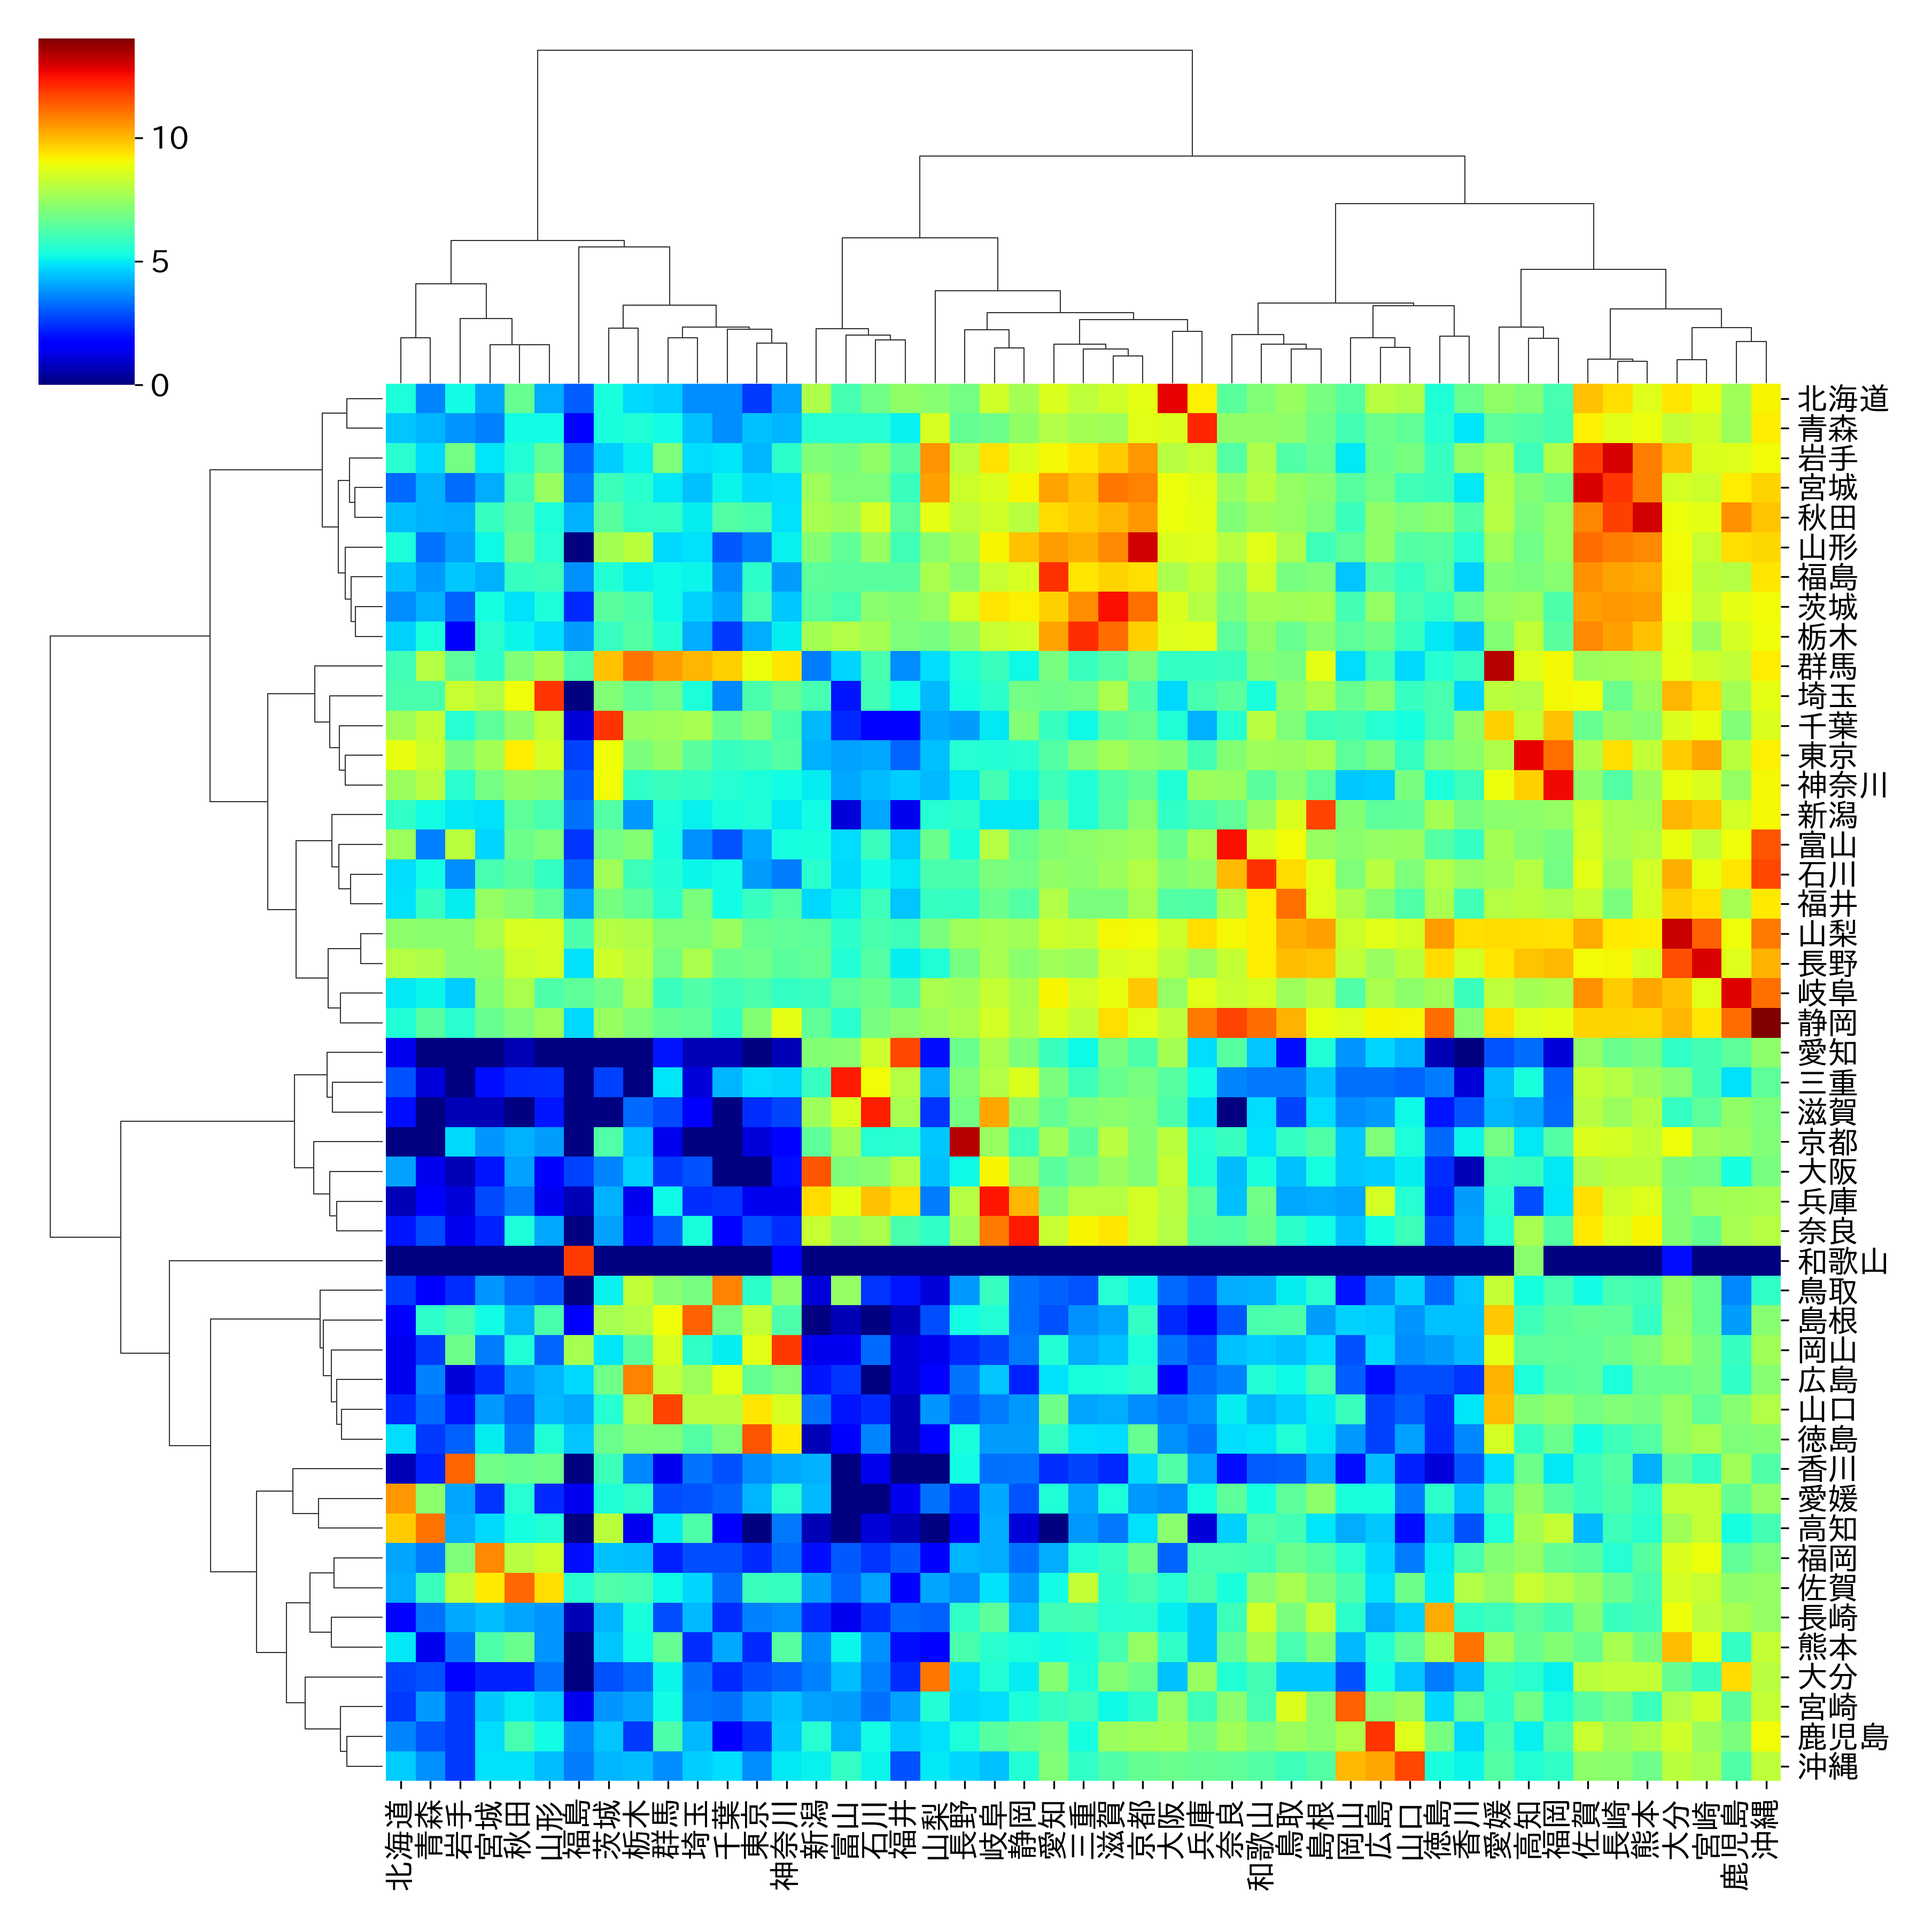
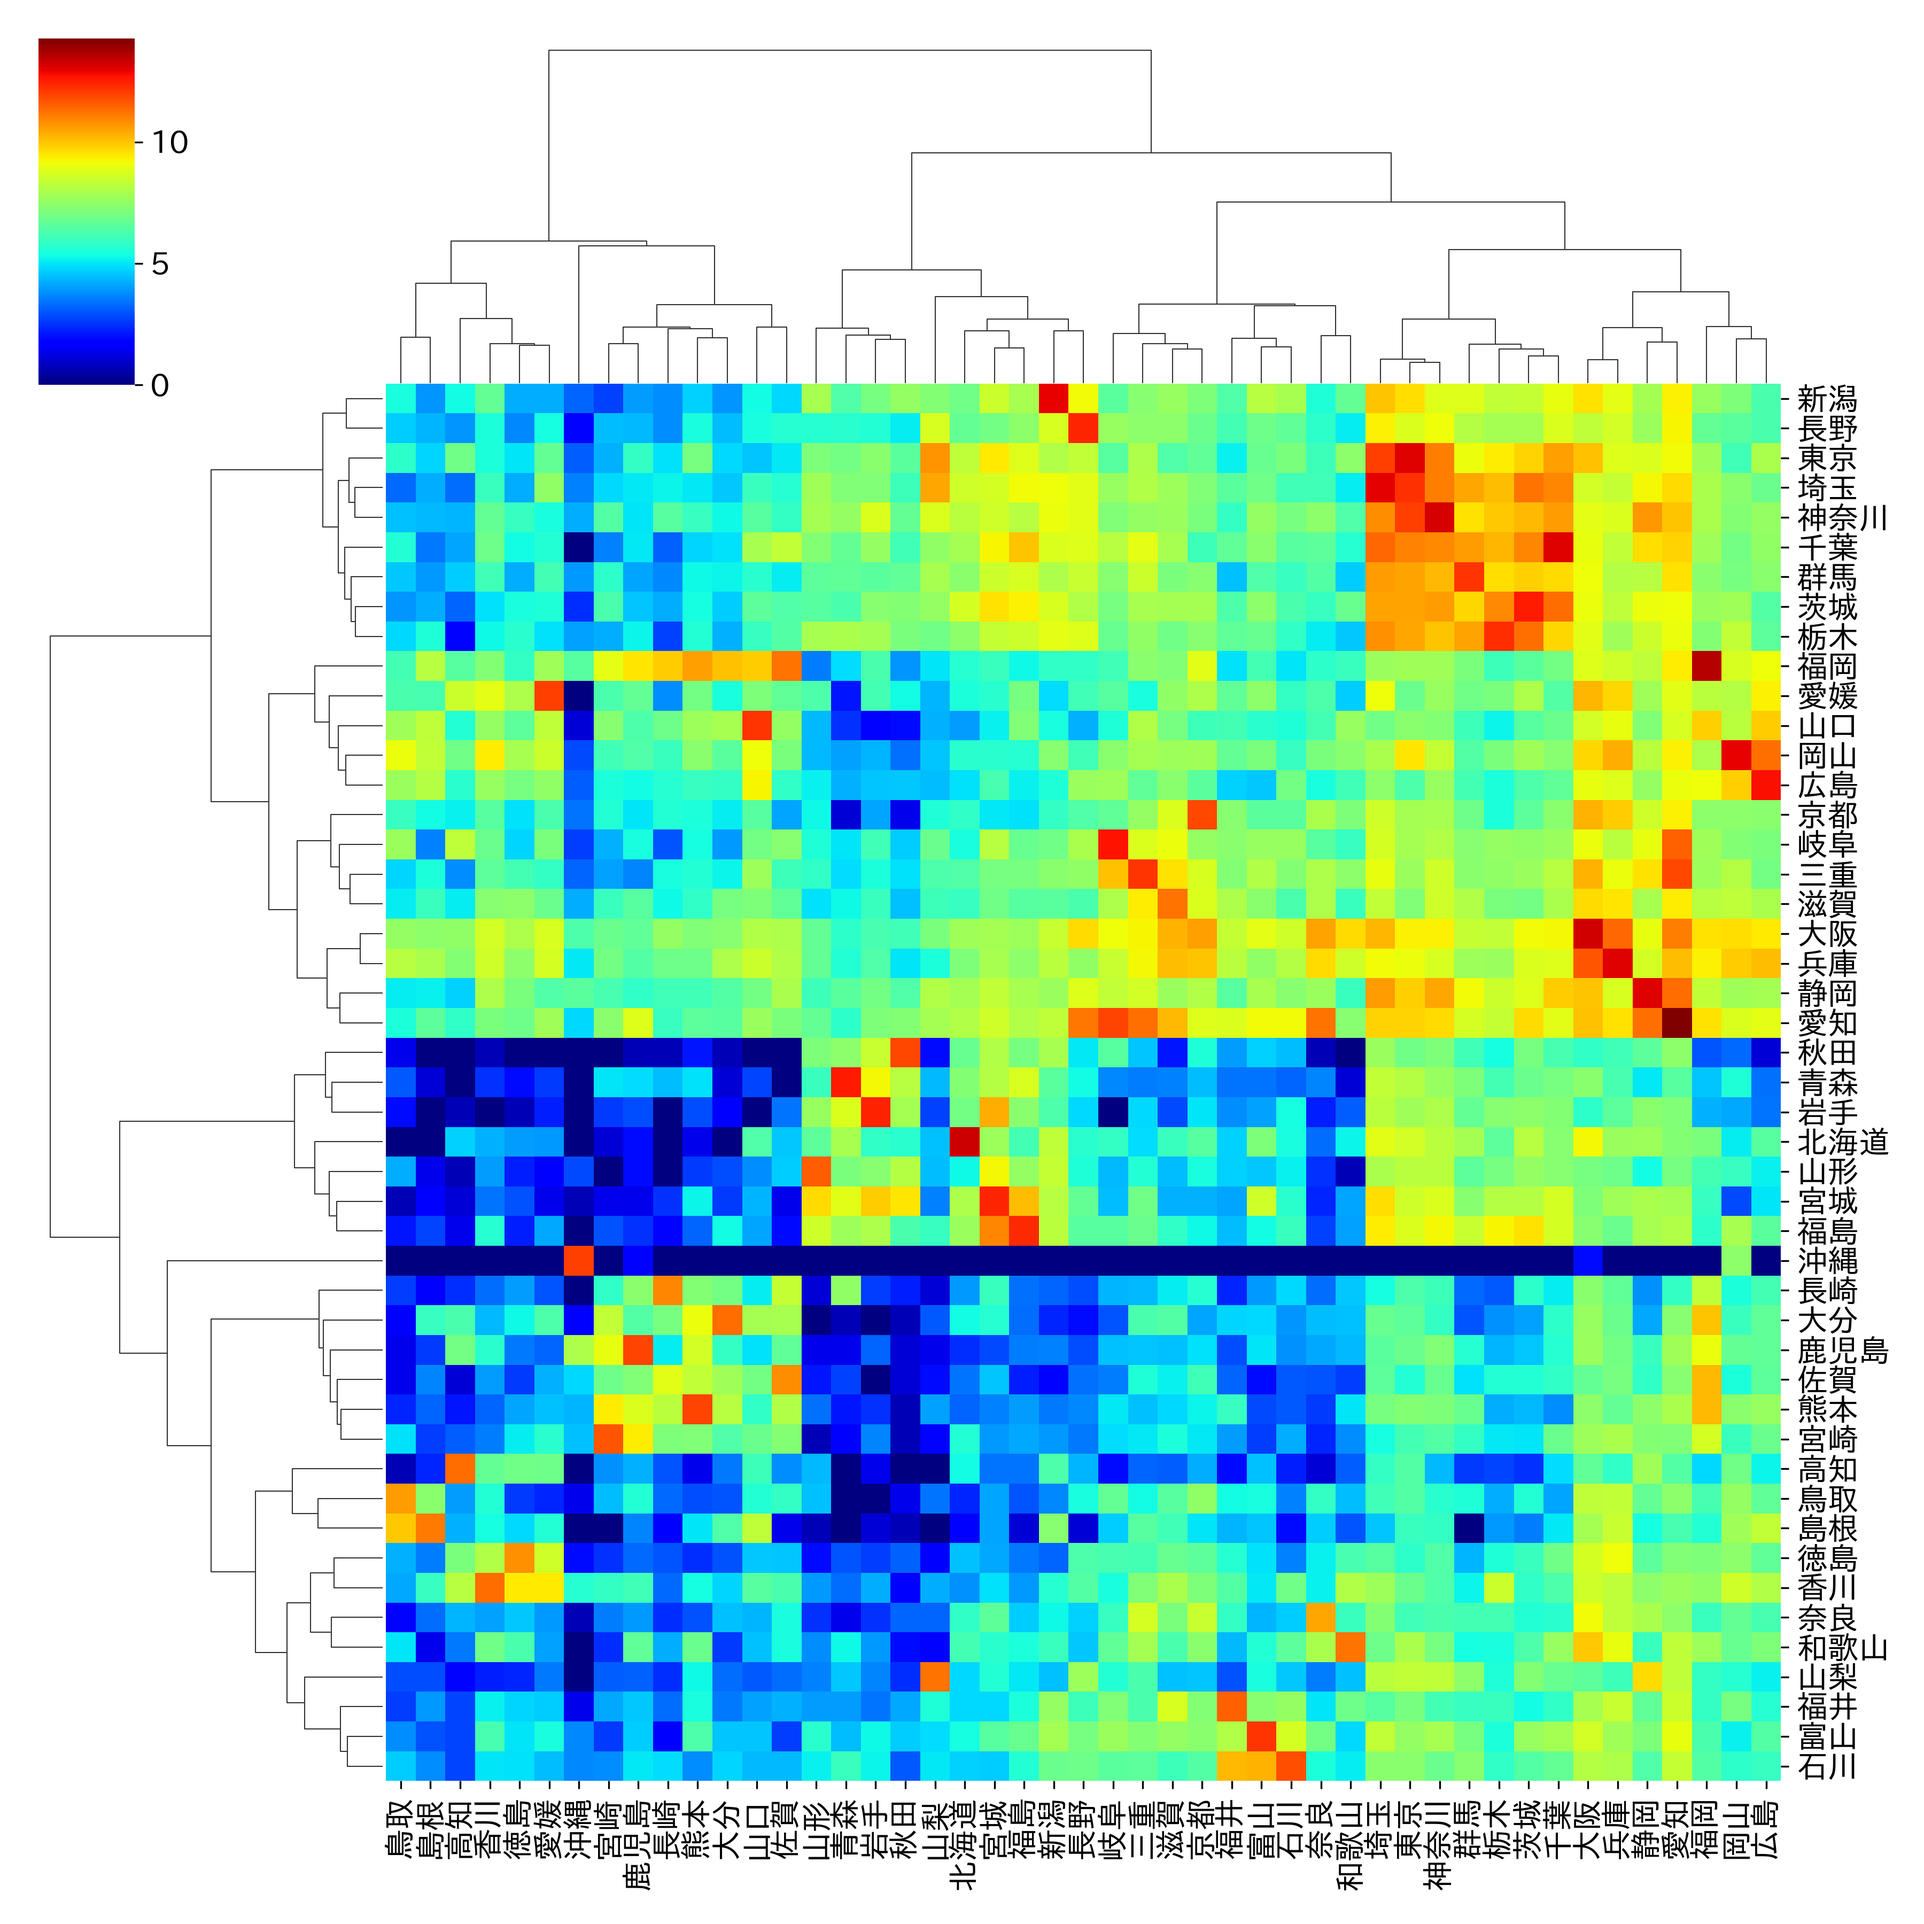
ラベルがclustering前のものになっていたので修正

diff --git a/1章/1_2_4_clustermap_logistics.py b/1章/1_2_4_clustermap_logistics.py
@@ -123,9 +123,13 @@ def plot_cluster_map():
     g.ax_heatmap.set_xticks(np.arange(len(data_df.columns)) + 0.5)
     g.ax_heatmap.set_yticks(np.arange(len(data_df.index)) + 0.5)
 
-    # X軸とY軸の目盛りに都道府県名を設定
-    g.ax_heatmap.set_xticklabels(data_df.columns)
-    g.ax_heatmap.set_yticklabels(data_df.index)
+    # 並び替えられた後のインデックスとカラムを取得
+    reordered_rows = g.dendrogram_row.reordered_ind
+    reordered_cols = g.dendrogram_col.reordered_ind
+
+    # X軸とY軸の目盛りに並び替えられた後の都道府県名を設定
+    g.ax_heatmap.set_xticklabels(data_df.columns[reordered_cols], rotation=90)
+    g.ax_heatmap.set_yticklabels(data_df.index[reordered_rows], rotation=0)
 
     plt.savefig("1_2_4_clustermap_logistics.png", dpi=300)  # 画像を保存
     plt.show()  # 画像を表示
